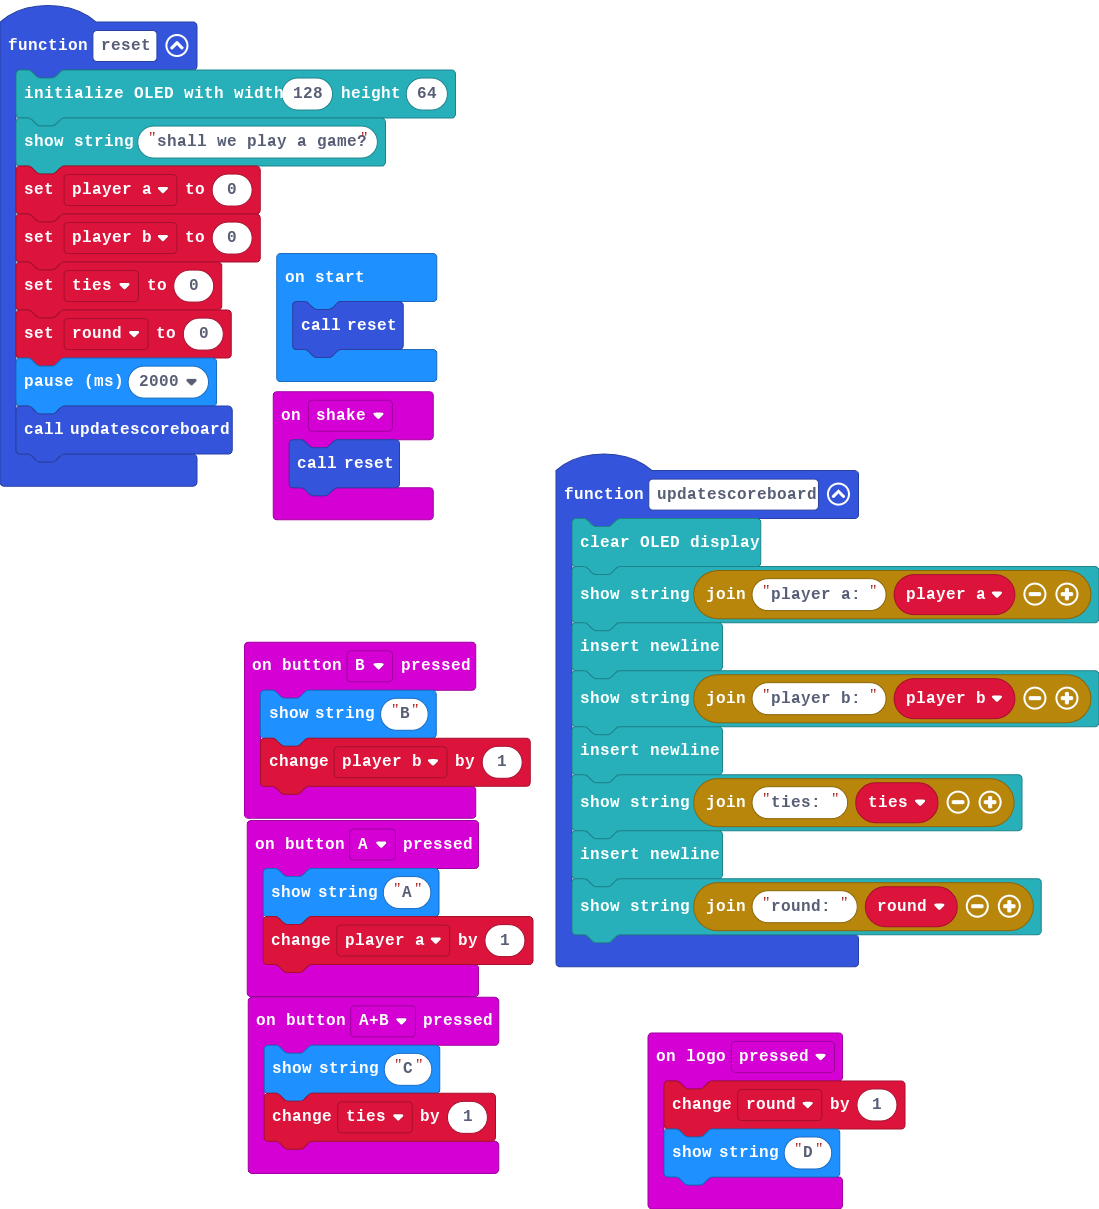
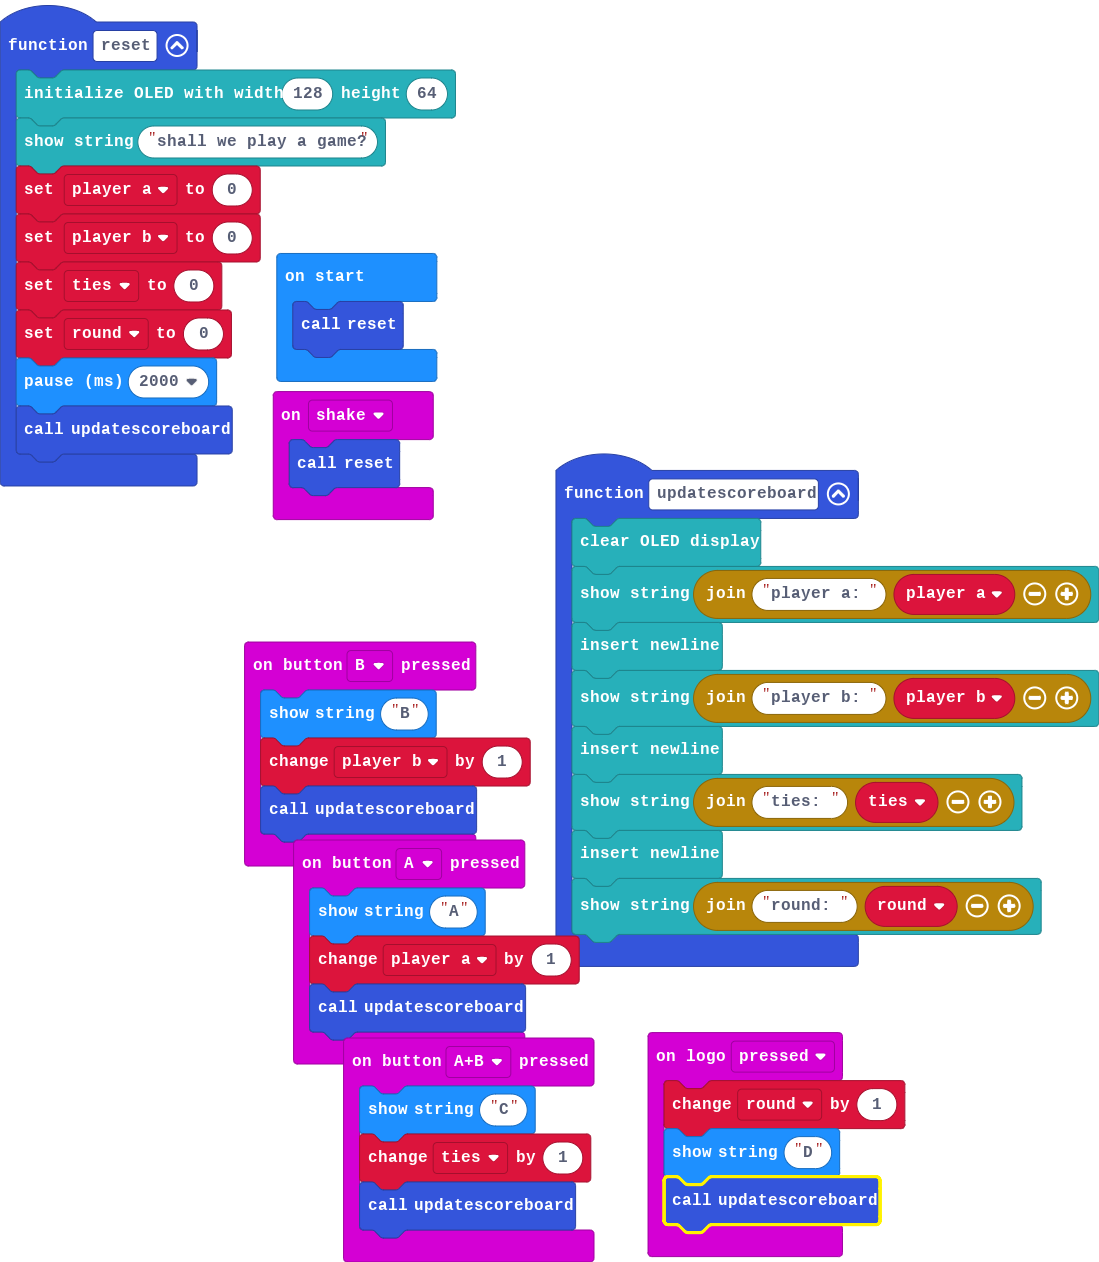
Update main.blocks, main.ts

Changed region(s): [[0.2166, 0.3366, 1.0, 1.0], [0.0, 0.0, 0.4022, 0.4285]]

diff --git a/main.ts b/main.ts
@@ -1,14 +1,17 @@
 input.onButtonPressed(Button.A, function () {
     basic.showString("A")
     player_a += 1
+    updatescoreboard()
 })
 input.onButtonPressed(Button.AB, function () {
     basic.showString("C")
     ties += 1
+    updatescoreboard()
 })
 input.onButtonPressed(Button.B, function () {
     basic.showString("B")
     player_b += 1
+    updatescoreboard()
 })
 input.onGesture(Gesture.Shake, function () {
     reset()
@@ -16,6 +19,7 @@ input.onGesture(Gesture.Shake, function () {
 input.onLogoEvent(TouchButtonEvent.Pressed, function () {
     round += 1
     basic.showString("D")
+    updatescoreboard()
 })
 function reset () {
     OLED.init(128, 64)
